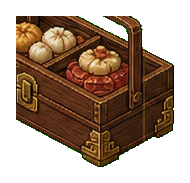
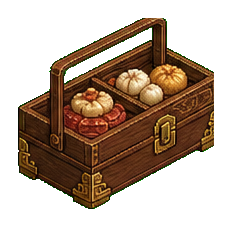
Refine tabletop furniture assets

diff --git a/scripts/generate_assets.py b/scripts/generate_assets.py
@@ -1679,6 +1679,127 @@ def apply_meditation_dais_replacement_v2():
     save(img, "furniture/func/meditation_dais.png")
 
 
+def remove_low_islands(img, min_area=180, low_ratio=0.78):
+    """Remove tiny detached fragments near the bottom without deleting shelf contents."""
+    px = img.load()
+    w, h = img.size
+    seen = set()
+    out = img.copy()
+    out_px = out.load()
+    for sy in range(h):
+        for sx in range(w):
+            if (sx, sy) in seen or px[sx, sy][3] <= 8:
+                continue
+            q = deque([(sx, sy)])
+            seen.add((sx, sy))
+            comp = []
+            minx = maxx = sx
+            miny = maxy = sy
+            while q:
+                x, y = q.popleft()
+                comp.append((x, y))
+                minx = min(minx, x); maxx = max(maxx, x)
+                miny = min(miny, y); maxy = max(maxy, y)
+                for nx, ny in ((x + 1, y), (x - 1, y), (x, y + 1), (x, y - 1)):
+                    if nx < 0 or ny < 0 or nx >= w or ny >= h or (nx, ny) in seen:
+                        continue
+                    if px[nx, ny][3] > 8:
+                        seen.add((nx, ny))
+                        q.append((nx, ny))
+            low_fragment = miny > h * low_ratio and len(comp) < min_area
+            if low_fragment:
+                for x, y in comp:
+                    out_px[x, y] = (0, 0, 0, 0)
+    return out
+
+
+def save_direction_variants(rel, axis=False):
+    """Write optional _r1/_r2/_r3 files consumed by the home renderer."""
+    path = ASSETS / rel
+    if not path.exists():
+        return
+    img = Image.open(path).convert("RGBA")
+    mirrored = ImageOps.mirror(img)
+    base = rel[:-4]
+    if axis:
+        save(mirrored, base + "_r1.png")
+        save(img.copy(), base + "_r2.png")
+        save(mirrored, base + "_r3.png")
+    else:
+        save(mirrored, base + "_r1.png")
+        save(img.copy(), base + "_r2.png")
+        save(mirrored, base + "_r3.png")
+
+
+def repaint_clean_desk_top():
+    """Clear source-sheet clutter from the desk so tabletop placement reads cleanly."""
+    path = ASSETS / "furniture/table/table_desk.png"
+    if not path.exists():
+        return
+    img = Image.open(path).convert("RGBA")
+    d = ImageDraw.Draw(img)
+    top = [(52, 96), (171, 68), (291, 96), (171, 126)]
+    d.polygon(top, fill=(139, 77, 38, 255), outline=(66, 39, 24, 255))
+    for off, col in [(8, (162, 94, 46, 230)), (18, (105, 58, 33, 210)), (28, (167, 104, 54, 210))]:
+        d.line((72, 98 + off // 5, 171, 75 + off // 6, 270, 98 + off // 5), fill=col, width=2)
+    d.line((66, 103, 171, 130, 278, 103), fill=(82, 47, 28, 240), width=3)
+    d.line((76, 90, 171, 111, 267, 90), fill=(182, 112, 58, 210), width=1)
+    save(img, "furniture/table/table_desk.png")
+
+
+def apply_surface_furniture_pass_v1():
+    """Art pass for tabletop/shelf placement: clean carrying surfaces and variants."""
+    # Recut clipped tabletop objects with larger source boxes.
+    decor_src = ROOT / "previews/home-decor-source-v1.png"
+    if decor_src.exists():
+        src = Image.open(decor_src).convert("RGBA")
+        for rel, box in {
+            "furniture/decor/decor_weiqi.png": (624, 364, 902, 620),
+            "furniture/decor/decor_books.png": (610, 620, 915, 870),
+        }.items():
+            save(cut_chroma_to_alpha(src.crop(box), pad=18), rel)
+
+    sheet2 = ROOT / "previews/home-asset-sheet-v2.png"
+    if sheet2.exists():
+        src2 = Image.open(sheet2).convert("RGBA")
+        save(cut_chroma_to_alpha(src2.crop((832, 770, 1142, 1015)), pad=18), "furniture/decor/decor_food_box.png")
+
+    # Remove bottom debris called out in the audit, then refresh their variants.
+    for rel, min_area in (
+        ("furniture/storage/storage_shelf.png", 1200),
+        ("furniture/storage/storage_wardrobe.png", 420),
+    ):
+        path = ASSETS / rel
+        if path.exists():
+            save(remove_low_islands(Image.open(path).convert("RGBA"), min_area=min_area), rel)
+
+    repaint_clean_desk_top()
+
+    # Axis-sensitive long objects need mirrored variants instead of identical copies.
+    for rel in (
+        "furniture/chair/chair_bench.png",
+        "furniture/table/table_long.png",
+        "furniture/table/table_desk.png",
+    ):
+        save_direction_variants(rel, axis=True)
+
+    # Top/shelf-capable small decor needs explicit variants; mirror is enough for
+    # current renderer and avoids fallback distortion while full four-face art evolves.
+    for rel in (
+        "furniture/decor/decor_brush.png",
+        "furniture/decor/decor_teaset.png",
+        "furniture/decor/decor_guqin.png",
+        "furniture/decor/decor_books.png",
+        "furniture/decor/decor_ruyi.png",
+        "furniture/decor/decor_inkstone.png",
+        "furniture/decor/decor_weiqi.png",
+        "furniture/decor/decor_food_box.png",
+        "furniture/storage/storage_shelf.png",
+        "furniture/storage/storage_wardrobe.png",
+    ):
+        save_direction_variants(rel)
+
+
 def main():
     environment_assets()
     furniture()
@@ -1698,6 +1819,7 @@ def main():
     apply_home_actor_layers_v2()
     apply_bed_table_replacement_v2()
     apply_meditation_dais_replacement_v2()
+    apply_surface_furniture_pass_v1()
 
 
 if __name__ == "__main__":
